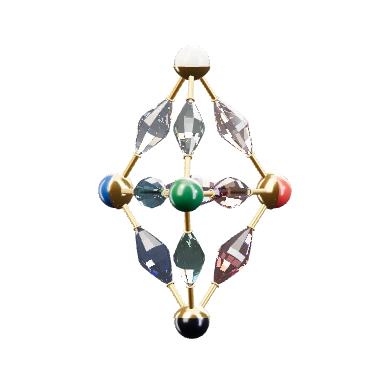
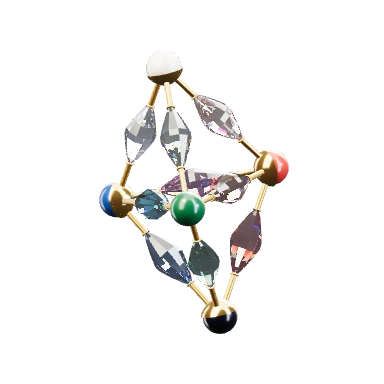
Soften CardForge motion, restore idle after saving and refine jewel loops

Changed region(s): [[0.25, 0.1562, 0.7812, 0.9062]]

diff --git a/web/client-benchmark/forge/main.js b/web/client-benchmark/forge/main.js
@@ -16,7 +16,8 @@ const reduced=matchMedia('(prefers-reduced-motion: reduce)');
 let generated=[],cards=demos.map(c=>({...c})),index=0,preview,busy=false,loading=false,editor=null,paused=reduced.matches,lastChange=Date.now(),timer,hovering=false;
 let shareBusy=false,finishes;
 const finishId=()=>active().finish_id||'vizier_etched_v1';
-const unattended=()=>Boolean(preview)&&!paused&&!reduced.matches&&!busy&&!loading&&!editor&&!hovering&&!document.hidden&&!finishes?.isOpen&&!$('gallery').contains(document.activeElement)&&$('card-preview').getAttribute('aria-busy')==='false';
+const keyboardFocusWithin=element=>element.contains(document.activeElement)&&document.activeElement.matches(':focus-visible');
+const unattended=()=>Boolean(preview)&&!paused&&!reduced.matches&&!busy&&!loading&&!editor&&!hovering&&!document.hidden&&!finishes?.isOpen&&!keyboardFocusWithin($('card-stage'))&&$('card-preview').getAttribute('aria-busy')==='false';
 const idle=idleMotion({element:$('card-preview'),enabled:unattended,paint:pointer=>preview?.idle(pointer)});
 let pendingArt=null,generationMode='create';
 const modePrompts={create:$('description').value,revise:'Give it vigilance. Keep its other abilities.'};
@@ -188,10 +189,10 @@ $('create-form').onsubmit=e=>{e.preventDefault();void generate();};
 $('stop-button').onclick=()=>{models.cancel();stage('Stopping…');};
 $('previous').onclick=()=>show(index-1);$('next').onclick=()=>show(index+1);
 $('pause-carousel').onclick=()=>{paused=!paused;lastChange=Date.now();controls();};
-$('gallery').onpointerenter=()=>{hovering=true;idle.stop();};
-$('gallery').addEventListener('focusin',()=>idle.stop());$('gallery').onpointerleave=()=>{hovering=false;lastChange=Date.now();};
+$('card-stage').onpointerenter=()=>{hovering=true;idle.stop();};
+$('card-stage').addEventListener('focusin',()=>{if(keyboardFocusWithin($('card-stage')))idle.stop();});$('card-stage').onpointerleave=()=>{hovering=false;lastChange=Date.now();};
 $('gallery').addEventListener('keydown',e=>{if(editor||busy||finishes?.isOpen||e.target.matches('input,textarea,select'))return;if(e.key==='ArrowRight'){e.preventDefault();show(index+1);}if(e.key==='ArrowLeft'){e.preventDefault();show(index-1);}});
-setInterval(()=>{if(unattended()&&Date.now()-lastChange>=10000)show(index+1);},500);
+setInterval(()=>{if(unattended()&&!keyboardFocusWithin($('gallery'))&&Date.now()-lastChange>=10000)show(index+1);},500);
 document.addEventListener('visibilitychange',()=>{lastChange=Date.now();});
 $('restore-art').onclick=()=>{if(busy||loading)return;closeEditor(false);if(restoreArtwork(active())){active().updated_at=new Date().toISOString();draw();void persist();sound.play('click');message('Previous artwork restored.');}};
 function field(name,label,value,{textarea=false,type='text',options}={}){

diff --git a/web/client-benchmark/forge/share-card.js b/web/client-benchmark/forge/share-card.js
@@ -1,14 +1,15 @@
 import {faceFor} from './cards.js';
+import {idlePointer} from './idle-motion.js';
 const blobOf=(canvas,type='image/png')=>new Promise((resolve,reject)=>canvas.toBlob(b=>b?resolve(b):reject(Error('The image could not be exported.')),type));
 export function cardText(card){return [card.name,card.mana_cost,card.type_line,card.oracle_text.replaceAll('CARDNAME',card.name),card.power!=null?`${card.power}/${card.toughness}`:card.loyalty!=null?`Loyalty: ${card.loyalty}`:'',card.rarity?`Rarity: ${card.rarity}`:'',card.artist?`Art: ${card.artist}`:''].filter(Boolean).join('\n\n');}
 export function animationPose(seconds){
- // Change the tilt axis, roll and distance: no diagonal stays pinned in place.
- // A quick two-way flash leads into a slow orbit and a readable final hold.
- const keys=[[0,0,0,0,.95,0,8],[.18,.115,-.18,-.07,.94,-8,-8],[.43,-.13,.18,.07,.95,8,5],[.8,-.05,-.10,-.04,.96,-4,-6],[1.6,.13,.055,.055,.97,8,-8],[2.65,-.075,-.15,-.035,.985,-6,4],[3.8,0,0,0,1,0,0]];
+ // The same orbit as idle, 20% stronger. Its clock gradually slows down;
+ // smooth ramps take it out from center and return it for the readable hold.
  if(seconds>=3.8)return {x:0,y:0,roll:0,scale:1,dx:0,dy:0};
- const i=Math.max(1,keys.findIndex(k=>k[0]>=Math.max(0,seconds))),a=keys[i-1],b=keys[i];
- const t=Math.max(0,Math.min(1,(seconds-a[0])/(b[0]-a[0]))),e=t*t*(3-2*t);
- return Object.fromEntries(['x','y','roll','scale','dx','dy'].map((key,j)=>[key,a[j+1]+(b[j+1]-a[j+1])*e]));
+ const t=Math.max(0,seconds),smooth=v=>{v=Math.max(0,Math.min(1,v));return v*v*(3-2*v);};
+ const amount=1.2*smooth(t/.75)*(1-smooth((t-1.8)/2));
+ const pointer=idlePointer(1.8*t-.15*t*t),x=(pointer.x-.5)*amount,y=(pointer.y-.5)*amount;
+ return {x:y*.30,y:x*.38,roll:0,scale:1,dx:x*10,dy:y*10};
 }
 
 function projected(x,y,pose){

diff --git a/web/client-benchmark/forge/style.css b/web/client-benchmark/forge/style.css
@@ -163,8 +163,8 @@ body{min-height:100svh;display:flex;flex-direction:column}
 
 /* Card-specific finishing lives beside the card, outside its editable surface. */
 .finish-picker{position:absolute;right:-49px;top:6px;z-index:5}
-#finish-toggle{display:grid;place-items:center;width:42px;height:42px;border-radius:50%;border:1px solid #dbc28b66;background:#122631dc;color:#edce92;box-shadow:0 3px 16px #0004;padding:10px}
-#finish-toggle svg{width:24px;height:24px;fill:none;stroke:currentColor;stroke-width:1.4;stroke-linejoin:round}
+#finish-toggle{display:grid;place-items:center;width:42px;height:42px;border-radius:50%;border:1px solid #dbc28b66;background:#122631dc;color:#edce92;box-shadow:0 3px 16px #0004;padding:0;line-height:0}
+#finish-toggle svg{display:block;width:24px;height:24px;fill:none;stroke:currentColor;stroke-width:1.4;stroke-linejoin:round}
 #finish-toggle:hover,#finish-toggle[aria-expanded=true]{background:#354139;border-color:#e7cc95}
 #finish-toggle:focus-visible{outline:2px solid #f3dcaa;outline-offset:3px}
 .finish-panel{position:absolute;right:0;top:49px;min-width:155px;padding:6px;background:#10232cf5;box-shadow:0 10px 28px #0008;border:1px solid #cdb98070;border-radius:8px;backdrop-filter:blur(12px)}
@@ -172,4 +172,4 @@ body{min-height:100svh;display:flex;flex-direction:column}
 .finish-panel button:hover,.finish-panel button:focus-visible{background:#edd09628;outline:1px solid #edd09670}
 .finish-panel button[aria-pressed=true]{background:#d6b66e35;color:#ffe3a5}
 .restore-art{display:block;margin:9px auto 0;color:#dcc799}
-@media(max-width:760px){.finish-picker{right:-12px;top:-18px}#finish-toggle{width:38px;height:38px;padding:8px}}
+@media(max-width:760px){.finish-picker{right:-12px;top:-18px}#finish-toggle{width:38px;height:38px;padding:0}}

diff --git a/web/client-benchmark/logo-studio/scene.js b/web/client-benchmark/logo-studio/scene.js
@@ -84,7 +84,7 @@ function design(kind){
     ['#bf392f','#145b37','#174789'].forEach((color,i)=>{const angle=i*2*Math.PI/3+.12;vertices.push({color,position:V(Math.cos(angle)*1.12,0,Math.sin(angle)*1.12)});});
     for(let i=2;i<5;i++){edges.push([0,i],[1,i],[i,2+(i-1)%3]);}
   }else{
-    for(let i=0;i<8;i++)vertices.push({color:[0,3,5,6].includes(i)?'#f6efe5':'#e6ca93',position:V(i&1?.97:-.97,i&2?.97:-.97,i&4?.97:-.97)});
+    for(let i=0;i<8;i++)vertices.push({color:'#f6efe5',position:V(i&1?.97:-.97,i&2?.97:-.97,i&4?.97:-.97)});
     for(let i=0;i<8;i++)for(let j=i+1;j<8;j++)if([1,2,4].includes(i^j))edges.push([i,j]);
   }
   for(const vertex of vertices)pearl(group,vertex);
@@ -98,7 +98,12 @@ window.logoStudio={
   render(kind,turn=0,size=256){
     if(renderer.domElement.width!==size)renderer.setSize(size,size);
     for(const [name,d]of Object.entries(designs))d.group.visible=name===kind;
-    const group=designs[kind].group;group.rotation.set(kind==='cube'?.30:0,turn*Math.PI*2+.58,kind==='cube'?-.12:0);group.updateMatrixWorld(true);
+    const group=designs[kind].group;
+    // Tilt the dual before rotating around world Y: its tips orbit in small
+    // circles, instead of remaining fixed on the spin axis.
+    if(kind==='dual')group.rotation.set(0,turn*Math.PI*2+.58,Math.PI/12,'YXZ');
+    else group.rotation.set(.30,turn*Math.PI*2+.58,-.12,'XYZ');
+    group.updateMatrixWorld(true);
     renderer.render(scene,camera);return renderer.domElement.toDataURL('image/png').split(',')[1];
   }
 };

diff --git a/web/client-benchmark/forge/idle-motion.js b/web/client-benchmark/forge/idle-motion.js
@@ -1,3 +1,5 @@
+/** Shared gentle orbit for the preview and exported video. */
+export const idlePointer=seconds=>({x:.5+Math.sin(seconds*.63)*.29,y:.5+Math.sin(seconds*.83+.7)*.23});
 /** Consumer-owned motion; no face rebuilds or synthetic input events. */
 export function idleMotion({element,enabled,paint}) {
   let visible=false,frame=0,started=0,last=0,moving=false,disposed=false;
@@ -7,7 +9,7 @@ export function idleMotion({element,enabled,paint}) {
     if(!started)started=time;
     if(time-last>=40){
       const t=(time-started)/1000,ramp=Math.min(1,t/1.2);last=time;moving=true;
-      paint({x:.5+Math.sin(t*.63)*.29*ramp,y:.5+Math.sin(t*.83+.7)*.23*ramp});
+      const pointer=idlePointer(t);paint({x:.5+(pointer.x-.5)*ramp,y:.5+(pointer.y-.5)*ramp});
     }
     frame=requestAnimationFrame(tick);
   }

diff --git a/web/client-benchmark/forge/README.md b/web/client-benchmark/forge/README.md
@@ -10,8 +10,11 @@ legend, an ability-copying land and a legendary artificer. The default visible
 artist credit is MTG CardForge and remains editable. Neris uses Prismatic foil,
 Crownroot uses Opal, and the Observatory uses Cold foil. Existing saved copies
 keep their chosen finish. Unattended cards drift and tilt gently, driving the
-real foil lighting without recreating textures. Hover, focus, editing, loading,
-generation, carousel pause, reduced motion and a hidden/offscreen view stop it.
+real foil lighting without recreating textures. Hover or keyboard focus on the card,
+editing, loading, generation, carousel pause, reduced motion and a hidden/offscreen
+view stop it. Hovering controls below the card keeps the idle motion running.
+Closing Save restores focus to its button and resumes motion automatically;
+keyboard focus in the gallery still pauses automatic card replacement.
 
 **Edit this card** is available immediately, without downloading models.
 Click names, cost, type, rules, stats, artist credit, set symbol, border, frame or artwork to edit.
@@ -83,7 +86,9 @@ cube sits above “Imagine it” on desktop, centered on the load button. It ext
 upward without moving the headline or controls, reusing Aurum's pearl materials,
 spindle-cut gemstones and refraction shader. The surrounding image is transparent;
 gemstone facets are slightly translucent while gold and pearls stay opaque.
-Each small gemstone sits at the midpoint of its gold edge. The dual uses an ivory,
+Each small gemstone sits at the midpoint of its gold edge. The cube uses eight
+matching ivory pearls with champagne gemstones. The dual spins with a 15° tilt
+so its top and bottom trace small circles. The dual uses an ivory,
 obsidian, red, forest green and sapphire blue mana palette; its gemstones use
 the linear-light midpoint of the two endpoint colors. Click the jewel to compare the dual tetrahedron; new visits default to the cube.
 `?logo=dual` and `?logo=cube` select either directly. Reduced motion uses a still.
@@ -396,9 +401,10 @@ lacks MediaRecorder, so it verifies the image path and video-unavailable fallbac
 Safari/iPhone recording still needs a physical-device check.
 
 - Images: 732 × 1020 PNG with the selected foil and rounded transparent corners.
-- Video: 720 × 1080, about six seconds, no audio. A quick two-way tilt flashes
-  the foil, followed by a slower orbit with roll and depth changes, then a centered
-  2.2-second hold. All four corners move without clipping. Uses MP4
+- Video: 720 × 1080, about six seconds, no audio. It follows the gentle idle
+  orbit, with 20% more amplitude and an initially faster pace that gradually
+  slows into a centered 2.2-second hold. No roll or zoom; all four corners move
+  without clipping. Uses MP4
   with H.264 when available, otherwise WebM. It records the same artifact for
   Share and Download. Keep the page visible while recording.
 - Text: readable card text in `.txt`, plus a separate editable JSON download
@@ -453,4 +459,12 @@ Parser acceptance demonstrates supported syntax, not comprehensive rules legalit
 
 ```bash
 CHROME_BIN=/path/to/chrome FORGE_URL=https://tetrarcum.com/ node check-forge-demos.mjs
+```
+
+The [gentle motion receipt](../forge-gentle-motion-verification-20261010.json)
+records Save focus/resume regressions, card-only hover pauses, desktop/mobile
+icon centering, real video exports and the updated jewel animations.
+
+```bash
+CHROME_BIN=/path/to/chrome node check-forge-gentle-motion.mjs
 ```

diff --git a/web/client-benchmark/logo-studio/README.md b/web/client-benchmark/logo-studio/README.md
@@ -11,10 +11,12 @@ No screenshots or remote assets are needed to reproduce the images.
   black pearls at the tips; red, forest green and sapphire blue pearls around the
   equator. The mana palette uses ivory `#f3ead7`, black `#10121b`, red `#bf392f`,
   green `#145b37` and blue `#174789` before lighting.
+  The shape is tilted 15° before rotation around the vertical axis, so the top
+  and bottom pearls trace small circles instead of sitting on the spin axis.
   Each of the nine spindle stones uses the arithmetic midpoint of its endpoint
   pearl colors **in linear-light RGB**. This sets tint and wavelength-dependent
   absorption; studio highlights and refraction still change the displayed color.
-- **Cube:** eight alternating ivory / pale-gold pearls and twelve champagne
+- **Cube:** eight matching ivory (`#f6efe5`) pearls and twelve champagne
   spindle stones. The midpoint color requirement applies only to the dual.
 
 The browser gets a transparent, 384 × 384 animated WebP: 360 frames over a
@@ -31,7 +33,7 @@ The large jewel above the desktop headline defaults to the cube. Its display is
 reserved-height area so it extends upward without shifting the headline or button. Only the chosen
 animation is downloaded; reduced motion or a hidden jewel/page uses a still.
 Mobile keeps the small gold wireframe header mark and fetches no animation.
-The dual loop is 5.09 MB and the cube is 7.20 MB; stills are 19 / 26 KB. Encoding
+The dual loop is 5.28 MB and the cube is 7.17 MB; stills are 19 / 26 KB. Encoding
 uses WebP quality 88, method 4, with full alpha quality (stills use quality 94).
 This is not a device benchmark against live WebGL. The complete scene remains
 available for an interactive version; the baked image cannot be freely rotated.
